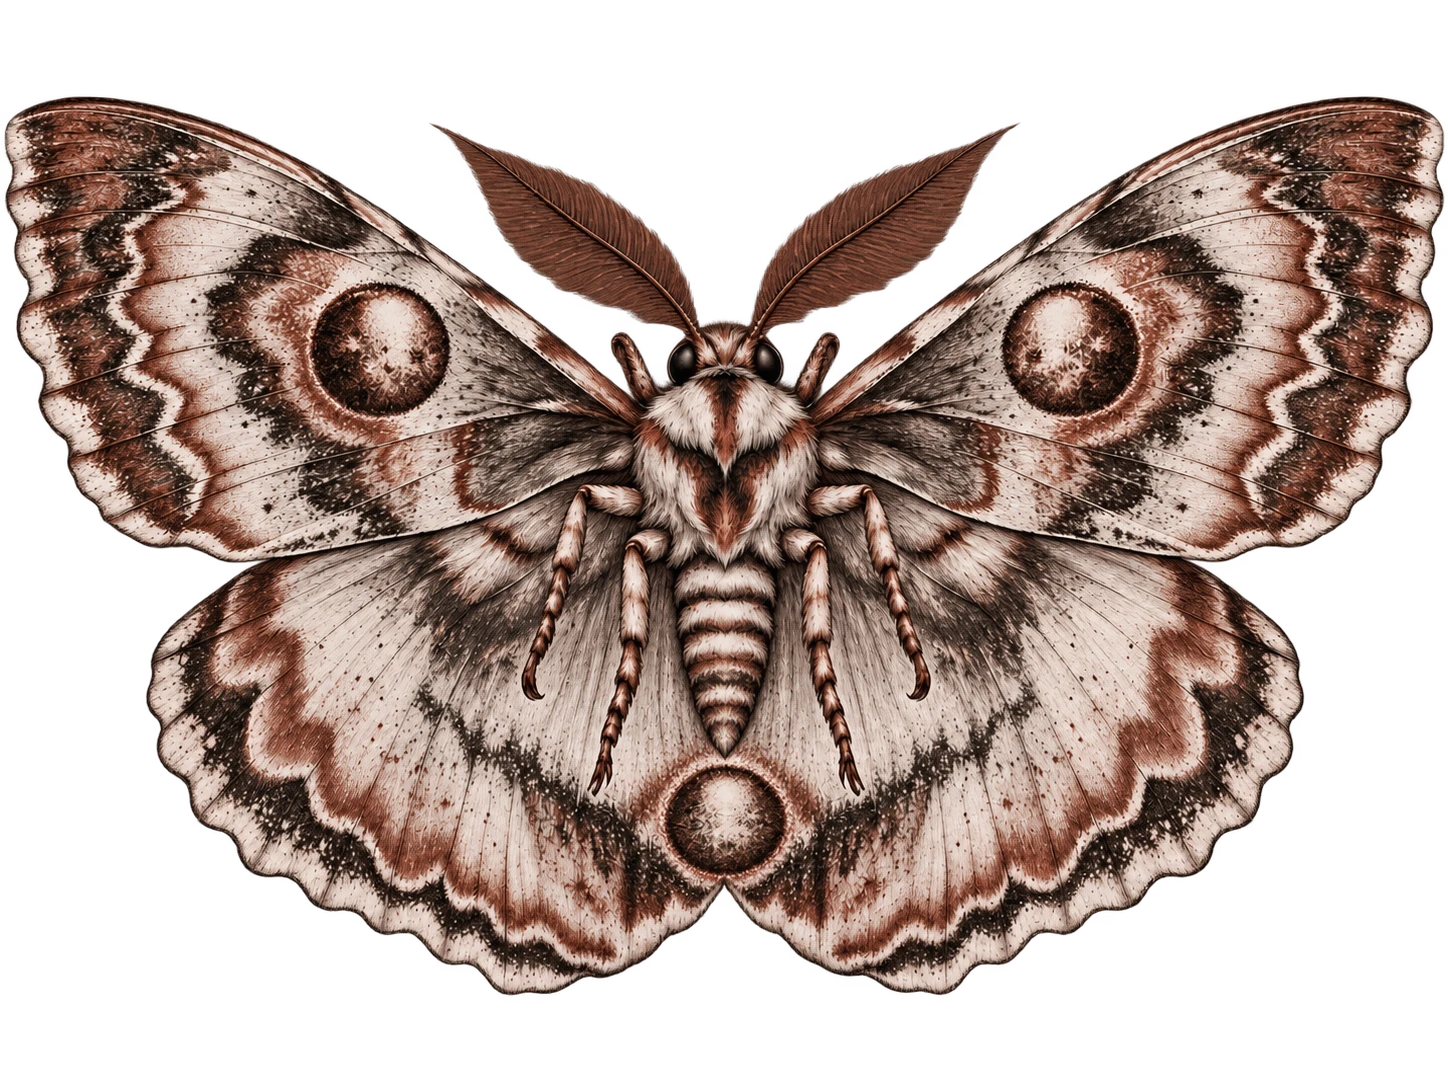
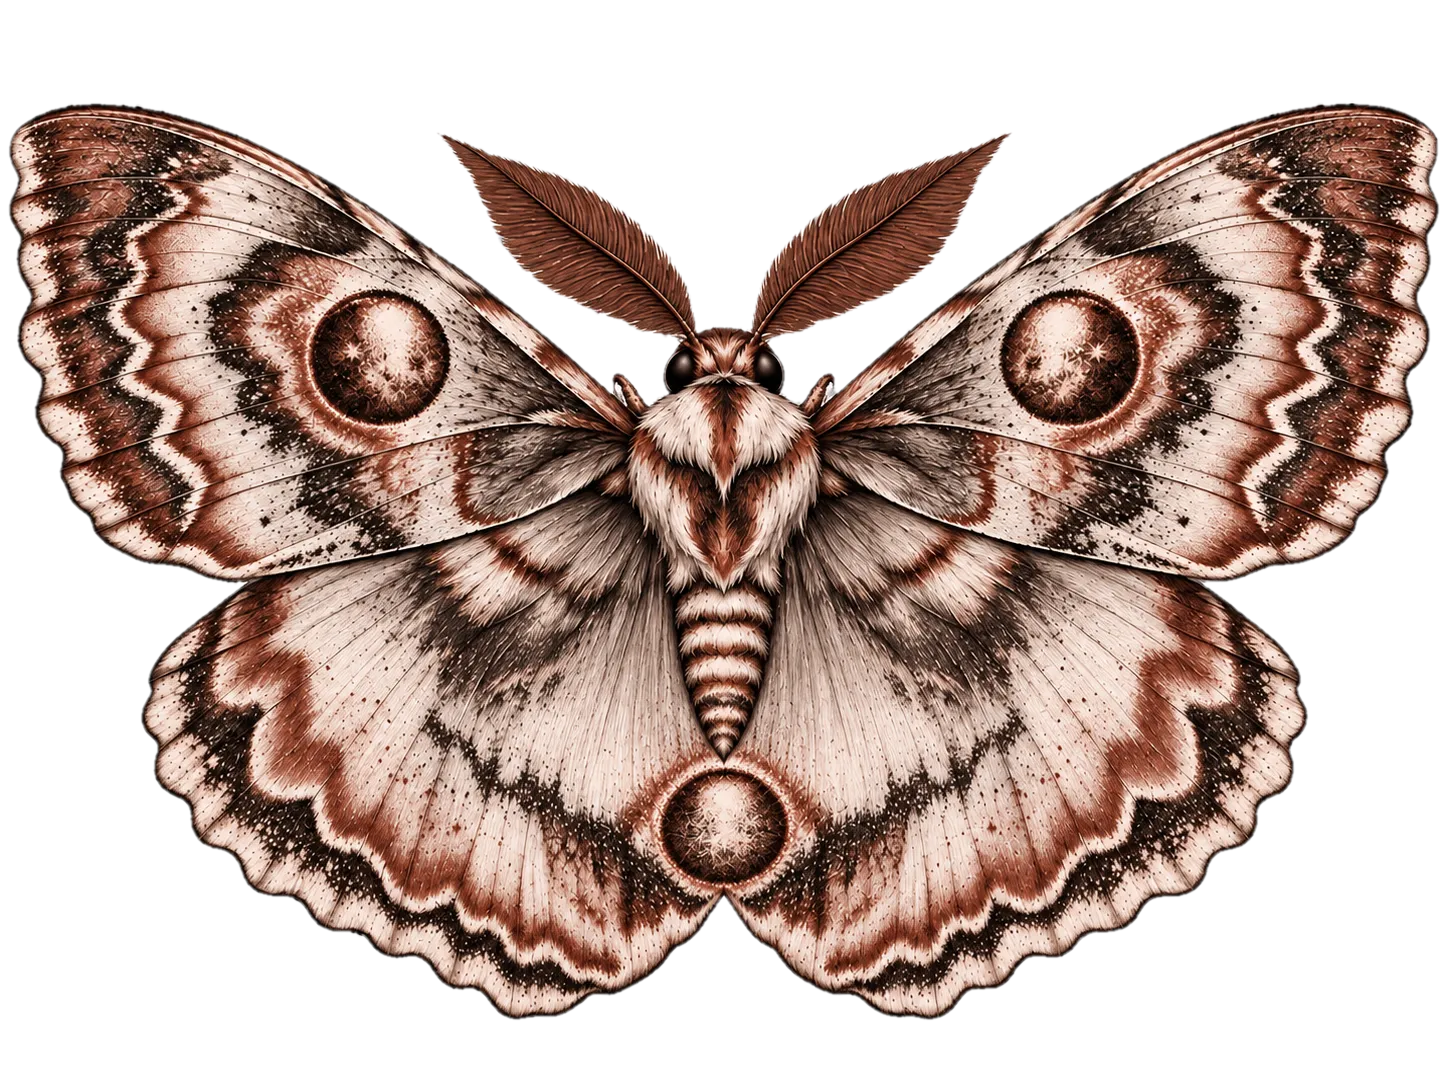
Replace the episode 5 moth with the version whose legs sit under the body
The new image had a checkerboard painted in instead of real transparency, so the background was removed by flood-filling the light neutral pixels connected to the border. SCENES.md now asks to check limb direction against the viewing side and to verify real transparency.

Claude-Session: https://claude.ai/code/session_01KhdEcKHgixs4cPfEhq4zA8

diff --git a/ccfolia-opening/SCENES.md b/ccfolia-opening/SCENES.md
@@ -21,7 +21,10 @@ python3 tools/make_scene_bg.py <ChatGPTの画像> <名前> [--light]
 5. 辞書カードと駒の置き場を重ねた確認用の絵も書き出す
 
 ## できた画像の確かめ方
-縮小した一覧だけで判断しない。原寸で拡大して、本文と一つずつ照らす（手足の数・数の指定・「切り抜かれている」などの状態・物の種類）。本文にない手足や顔は、PLが手がかりとして読み取ってしまうので、見つけたら作り直す。
+縮小した一覧だけで判断しない。原寸で拡大して、本文と一つずつ照らす（手足の数と**生えている向き**（背中側から見た虫の脚は体の下に隠れる、など）・数の指定・「切り抜かれている」などの状態・物の種類）。本文にない手足や顔は、PLが手がかりとして読み取ってしまうので、見つけたら作り直す。
+
+## 「透明な背景」の確かめ方
+ChatGPT の「透明な背景」は、灰色と白の市松模様を絵として描き込んでいることがある（ファイルが RGB で、透明の情報がない）。届いたら透明の情報があるかを確かめ、なければ外周から続く市松模様を抜く。
 
 ## ココフォリアでの出し方
 - 場面ごとにシーンを作り、背景だけ差し替える（差分も同じ）
